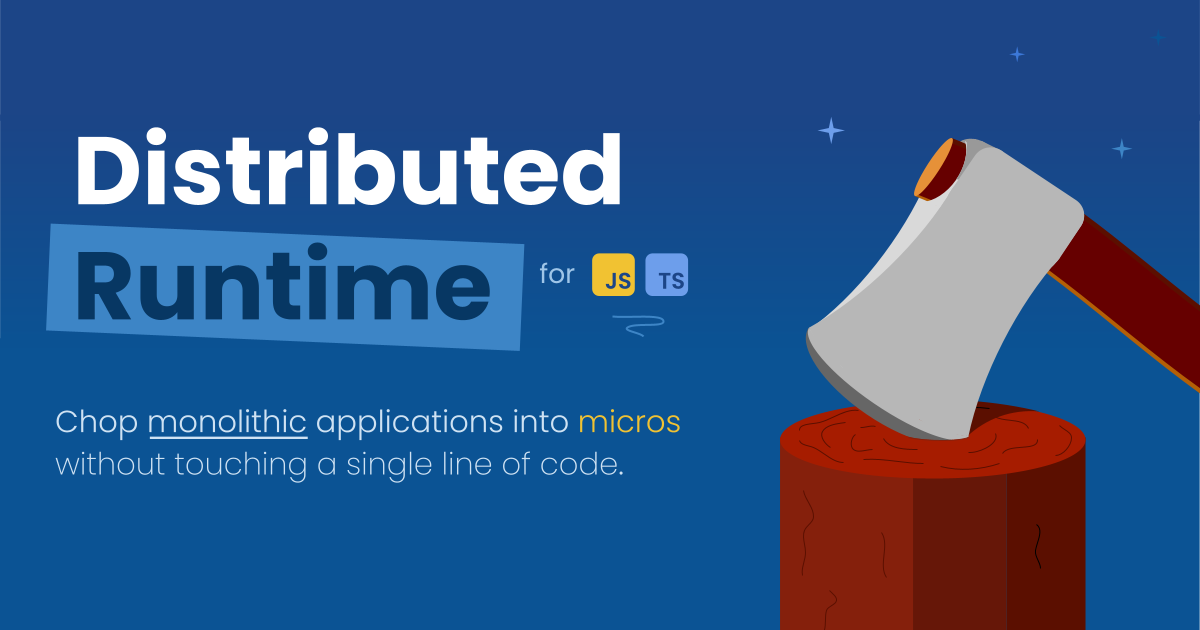
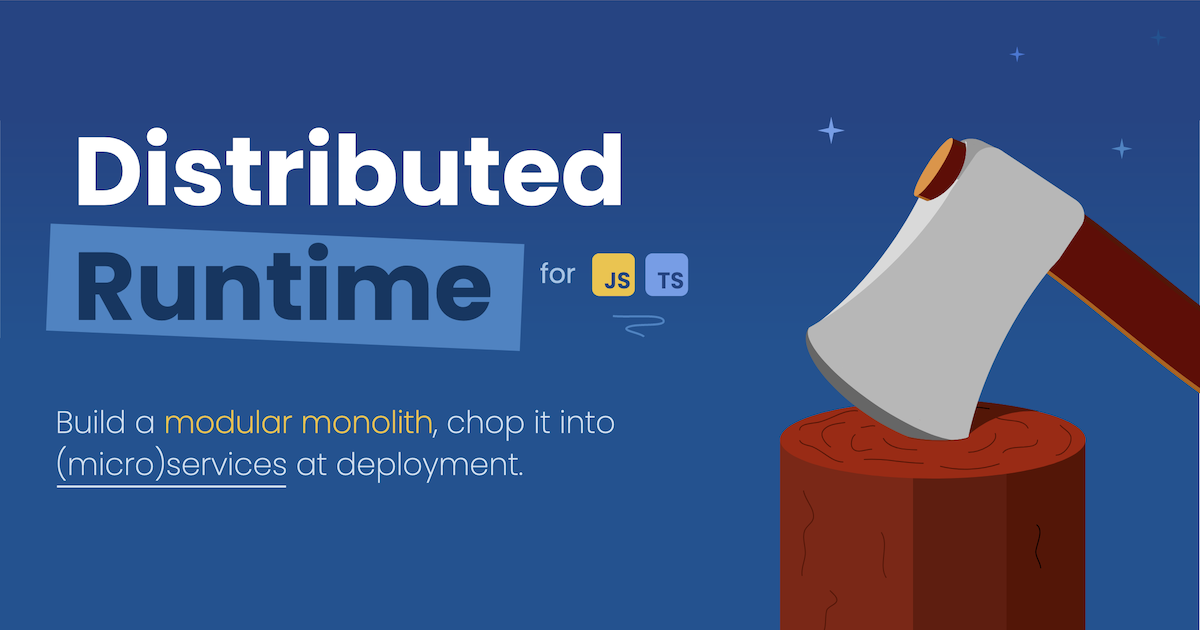
feat(website): updated headline (#495)

diff --git a/website/src/index.html b/website/src/index.html
@@ -8,15 +8,15 @@
         <meta name="viewport" content="width=device-width, initial-scale=1.0, minimum-scale=1.0">
         <meta http-equiv="Content-Type" content="text/html; charset=UTF-8" />
         <meta http-equiv="Content-Language" content="en" />
-        <meta name="description" content="Distributed runtime for JavaScript and TypeScript that automates all end-to-end communication: type-safe, configurable and extendable." />
+        <meta name="description" content="Distributed runtime for JavaScript and TypeScript: build a modular monolith, chop it into (micro)services at deployment." />
         <meta name="author" content="Masking Technology" />
-        <meta name="copyright" content="2023 Masking Technology" />
+        <meta name="copyright" content="2024 Masking Technology" />
         <meta name="application-name" content="Jitar Website" />
         <meta name="format-detection" content="telephone=no">
 
         <meta property="og:site_name" content="Jitar">
         <meta property="og:title" content="Distributed runtime for JavaScript and TypeScript.">
-        <meta property="og:description" content="Distributed runtime for JavaScript and TypeScript that automates all end-to-end communication: type-safe, configurable and extendable.">
+        <meta property="og:description" content="Distributed runtime for JavaScript and TypeScript: build a modular monolith, chop it into (micro)services at deployment.">
         <meta property="og:image" content="https://jitar.dev/images/jitar-og.png">
         <meta property="og:url" content="https://jitar.dev">
         <meta name="twitter:card" content="summary_large_image">
@@ -61,8 +61,8 @@
                         </div>
                     </div>
                     <div class="slogan">
-                        <span class="colorize">Automate</span> all <span class="underline">end-to-end</span> communication.<br />
-                        Type-safe, configurable and extendable.
+                        Build a <span class="colorize">modular monolith</span>, chop it into<br />
+                        <span class="underline">(micro)services</span> at deployment.
                     </div>
                     <div class="actions">
                         <a href="https://docs.jitar.dev/introduction/quick-start.html" target="_blank" class="action action-primary">Get started</a>
@@ -310,7 +310,7 @@
 
     <footer>
         <p>Released under the MIT License.</p>
-        <p>Copyright &copy; 2023 - <a href="https://masking.tech" target="_blank">Masking Technology</a></p>
+        <p>Copyright &copy; 2024 - <a href="https://masking.tech" target="_blank">Masking Technology</a></p>
     </footer>
 
 </html>
